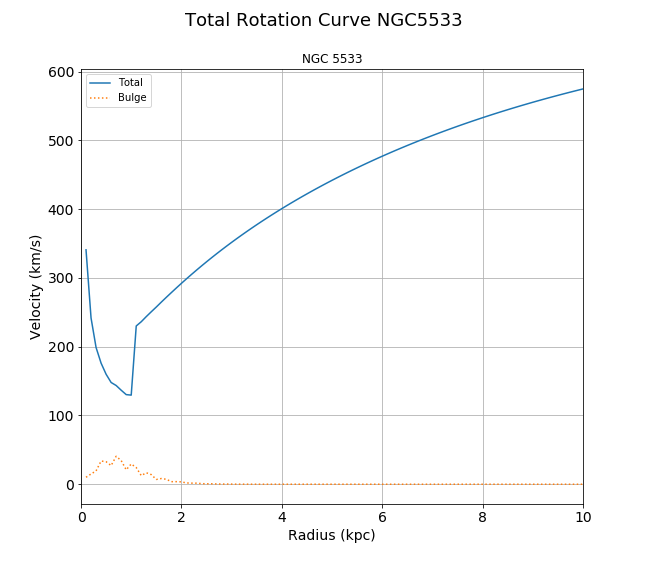
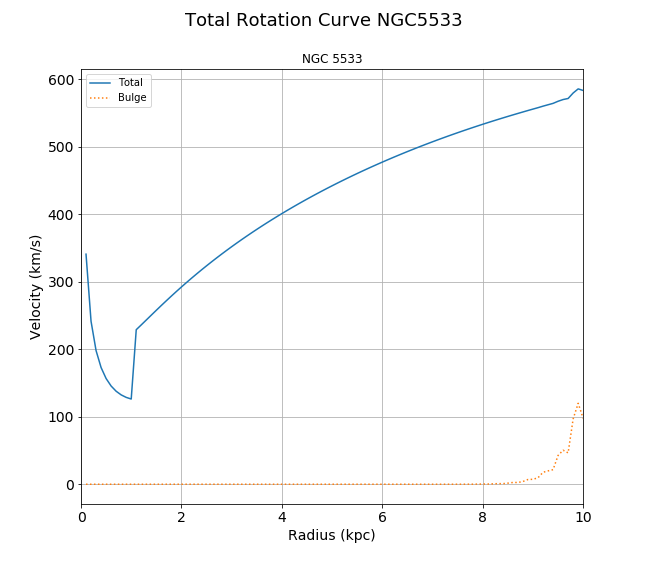
Working through save errors still

diff --git a/NGC5533_Final/Scripts/disk.py b/NGC5533_Final/Scripts/disk.py
@@ -21,9 +21,9 @@
 ######################################## Save vd for given h #########################################################
 
 #Savedata name values
-r0id = "varray_"+str(r0[0])+"-"+str(r0[len(r0)-1])+"_"+str(len(r0))+".hdf5"
+#r0id = "varray_"+str(r0[0])+"-"+str(r0[len(r0)-1])+"_"+str(len(r0))+".hdf5"
 #location = "Inputs/"+r0id
-#hval = "h"+str(h)
+hval = "h"+str(h)
 
 #Load savedata if available, else create file
 #try:
@@ -55,7 +55,7 @@ except KeyError:                                                                
         condlist = [r <= R, (r > R) & (r <= (R+d)), r > (R+d)]
         funclist = [lambda r: -(1/h)*rho00*np.exp(-r/h), lambda r: -(1/d)*rho00*np.exp(-R/h), lambda r: 0]
         return np.piecewise(r, condlist, funclist)
-    rho_rz = lambda r,z: rho0(r, R, h, d)*(np.power(np.cosh(z/z0), (-2)))                                           #Disk Density Distribution
+    rho_rz = lambda r,z: rho0(r, R, h, d)*(np.power(sym.cosh(z/z0).evalf(), (-2)))                                           #Disk Density Distribution
     drho_rz = lambda r,z: durho0(r, R, h, d)*(np.power(np.cosh(z/z0), -2))
     K = lambda r,u,xi: ellipk(px(r,u,xi)) - ellipe(px(r,u,xi))                                                      #Complete Elliptic Integral
     f = lambda z,r,u: u*drho_rz(u, z)*(2*K(r,u,z))/(np.pi*np.sqrt(r*u*px(r,u,z)))                                   #Inner Function (3D)                                                                                 

diff --git a/NGC5533_Final/Scripts/bulge.py b/NGC5533_Final/Scripts/bulge.py
@@ -50,8 +50,8 @@ except KeyError:
 
     #Functions
     def vb(r):
-        f = lambda x,m: ((np.exp(-np.power(x/ra, (1/n))))*(np.power(x/ra, ((1/n)-1))))/(np.sqrt((x**2)-(m**2)));
-        g = lambda m: quad(f, m, np.inf,args=(m,))[0]
+        fb = lambda x,m: ((np.exp(-np.power(x/ra, (1/n))))*(np.power(x/ra, ((1/n)-1))))/(np.sqrt((x**2)-(m**2)));
+        g = lambda m: quad(fb, m, np.inf,args=(m,))[0]
         I0 = (L*(root**(2*n)))/(((re**2)*2*np.pi*n)*ss.gamma(2*n))
         C = (4*G*q*ups*I0)/(ra*np.float(n))*(np.sqrt((np.sin(i)**2)+(1/(q**2))*(np.cos(i)**2)))
         e2 = 1-(q**2)
